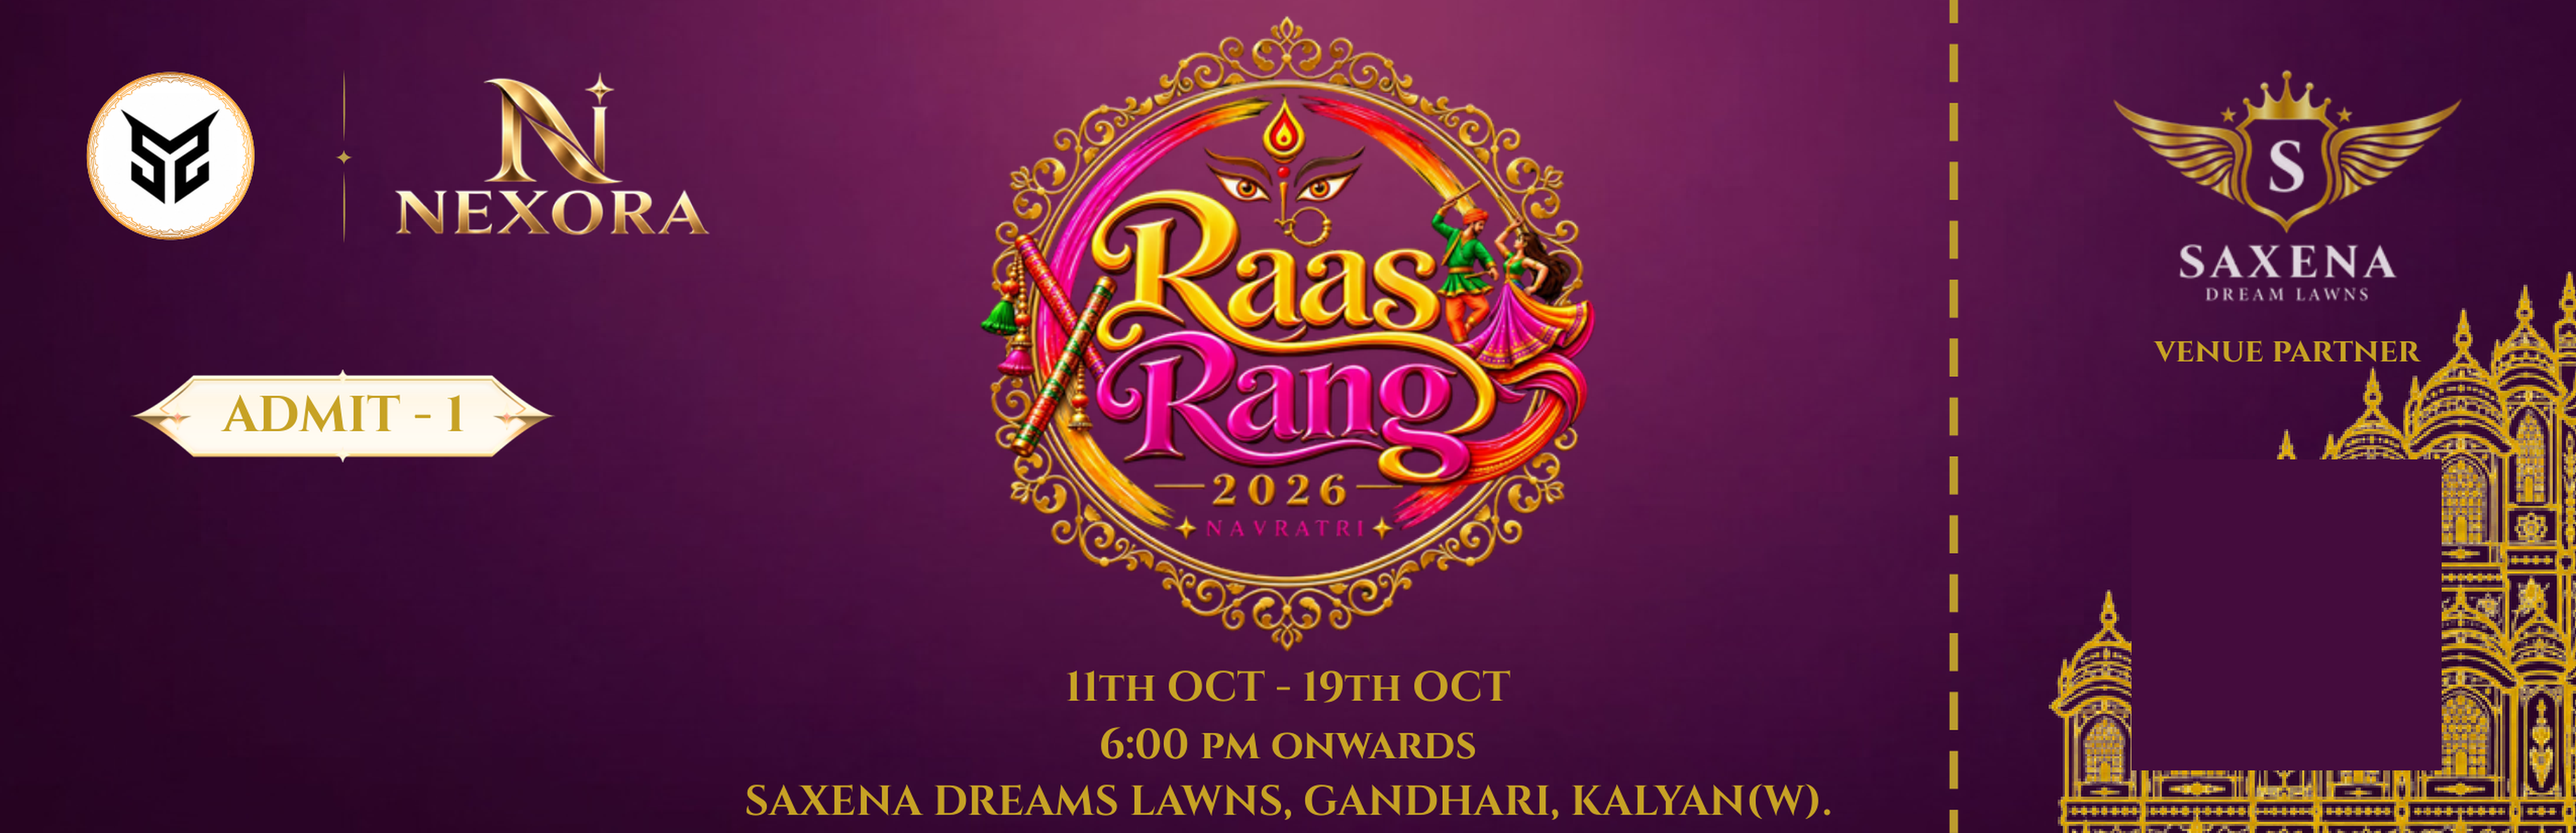
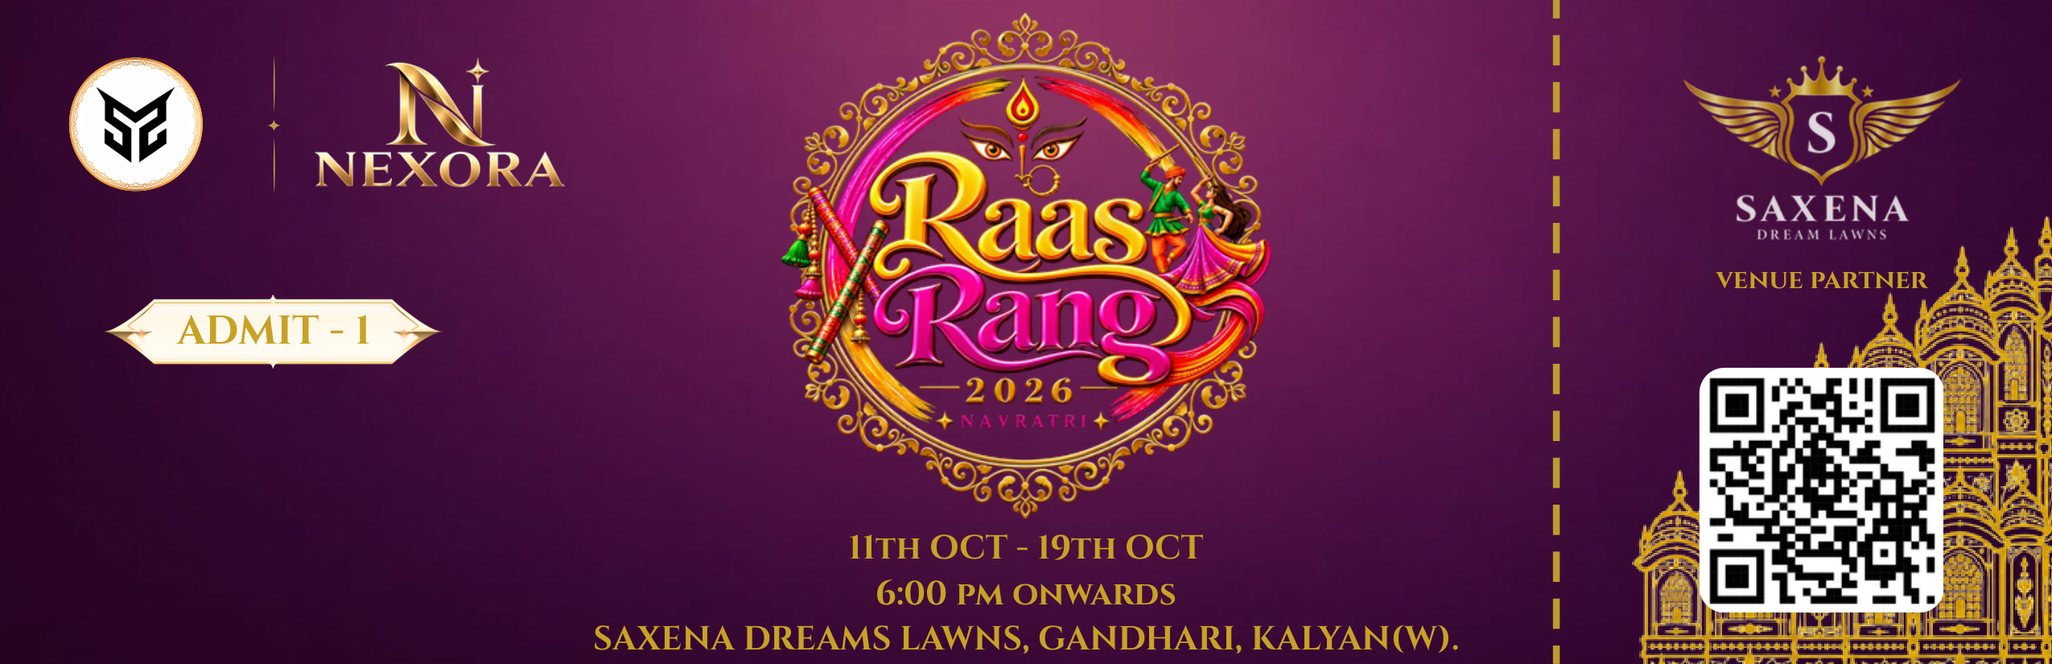
Fix whatsapp venue and date format, update ticket pdf aspect ratio and high res background

Changed region(s): [[0.8055, 0.5455, 0.9604, 0.9394], [0.031, 0.0909, 0.0929, 0.1212], [0.031, 0.2424, 0.062, 0.2727]]

diff --git a/src/lib/delivery-utils.ts b/src/lib/delivery-utils.ts
@@ -61,7 +61,8 @@ export function buildTicketMessage(pass: Pass, night?: EventNight | null): strin
   } else if (night) {
     const d = new Date(night.event_date + 'T00:00:00+05:30');
     const month = d.toLocaleDateString('en-IN', { month: 'long' });
-    dateLabel = `*Date:* ${ordinal(d.getDate())} ${month}`;
+    const weekday = d.toLocaleDateString('en-IN', { weekday: 'long' });
+    dateLabel = `*Date:* ${ordinal(d.getDate())} of ${month} ${weekday}`;
   } else {
     dateLabel = '*Date:* See ticket for details';
   }
@@ -72,7 +73,7 @@ export function buildTicketMessage(pass: Pass, night?: EventNight | null): strin
     `Please keep it safely saved on your phone and present the QR code at the entry.\n\n` +
     `${dateLabel}\n` +
     `*Time:* 6 PM onwards\n` +
-    `*Venue:* Mangeshi Banquet, Near Skydeck, Kalyan (West)\n\n` +
+    `*Venue:* Saxen Adream Lawns\n\n` +
     `Important:\n` +
     `• Please carry the ticket/QR code for entry.\n` +
     `• One ticket is valid for the number of persons mentioned at the time of booking.\n` +

diff --git a/src/lib/pdf.ts b/src/lib/pdf.ts
@@ -24,9 +24,9 @@ export async function generateTicketPdf(
 ): Promise<Uint8Array> {
   const pdfDoc = await PDFDocument.create();
 
-  // Printable dimensions: 552.75 pt x 207.28 pt (aspect ratio 2.666:1)
+  // Printable dimensions: 552.75 pt x 178.82 pt (aspect ratio 3.09:1)
   const widthPt = 552.75;
-  const heightPt = 207.28;
+  const heightPt = 178.82;
   const page = pdfDoc.addPage([widthPt, heightPt]);
 
   // Load and embed background event artwork

diff --git a/find_qr.py b/find_qr.py
@@ -1,0 +1,35 @@
+from PIL import Image
+
+img = Image.open("public/ticket-bg-highres.png")
+pixels = img.load()
+width, height = img.size
+
+# Search in the right side
+x_start = int(width * 0.75)
+x_end = width
+y_start = 0
+y_end = height
+
+white_pixels = []
+
+for x in range(x_start, x_end):
+    for y in range(y_start, y_end):
+        r, g, b = pixels[x, y][:3]
+        if r > 240 and g > 240 and b > 240:
+            white_pixels.append((x, y))
+
+if white_pixels:
+    min_x = min(p[0] for p in white_pixels)
+    max_x = max(p[0] for p in white_pixels)
+    min_y = min(p[1] for p in white_pixels)
+    max_y = max(p[1] for p in white_pixels)
+    print(f"White bounding box:")
+    print(f"min_x: {min_x}, max_x: {max_x}, min_y: {min_y}, max_y: {max_y}")
+    
+    print(f"leftPercent: {min_x / width * 100:.2f}%")
+    print(f"topPercent: {min_y / height * 100:.2f}%")
+    print(f"widthPercent: {(max_x - min_x) / width * 100:.2f}%")
+    print(f"heightPercent: {(max_y - min_y) / height * 100:.2f}%")
+else:
+    print("No white pixels found on the right side.")
+

diff --git a/extract_images.py b/extract_images.py
@@ -1,0 +1,19 @@
+import fitz
+
+doc = fitz.open("/Users/rishabhh/Downloads/PASS DESIGN _20261007_122814_0000.pdf")
+for page_index in range(len(doc)):
+    page = doc[page_index]
+    image_list = page.get_images(full=True)
+    if image_list:
+        print(f"[+] Found a total of {len(image_list)} images in page {page_index}")
+    else:
+        print("[!] No images found on page", page_index)
+    for image_index, img in enumerate(image_list, start=1):
+        xref = img[0]
+        base_image = doc.extract_image(xref)
+        image_bytes = base_image["image"]
+        image_ext = base_image["ext"]
+        image_name = f"public/extracted_image_{page_index}_{image_index}.{image_ext}"
+        with open(image_name, "wb") as f:
+            f.write(image_bytes)
+            print(f"[+] Image saved as {image_name}")

diff --git a/remove_qr.py b/remove_qr.py
@@ -1,0 +1,16 @@
+from PIL import Image, ImageDraw
+
+img = Image.open("public/ticket-bg-highres.png")
+draw = ImageDraw.Draw(img)
+
+# Sample color from just above the white box
+bg_color = img.getpixel((2112, 450))
+
+# Fill the white box region with the background color
+draw.rectangle([2110, 455, 2416, 762], fill=bg_color)
+
+# Resize to something reasonable but high-res, e.g. 3200x1035 or keep original
+img = img.resize((3200, int(3200 * (825/2550))), Image.LANCZOS)
+img.save("public/ticket-bg.png")
+
+print(f"Removed QR and saved as ticket-bg.png with size {img.size}")

diff --git a/print_img.py b/print_img.py
@@ -1,0 +1,15 @@
+from PIL import Image
+
+img = Image.open("public/ticket-bg.png")
+width, height = img.size
+
+purple_count = 0
+total_count = 0
+for y in range(int(height/2), height):
+    for x in range(int(width/2)):
+        r, g, b = img.getpixel((x, y))[:3]
+        if abs(r - 43) < 20 and abs(g - 9) < 20 and abs(b - 56) < 20:  
+            purple_count += 1
+        total_count += 1
+
+print(f"Purple pixels: {purple_count}/{total_count} ({purple_count/total_count*100:.2f}%)")

diff --git a/process_ticket.py b/process_ticket.py
@@ -1,0 +1,12 @@
+import fitz
+import sys
+from PIL import Image, ImageDraw
+
+doc = fitz.open("/Users/rishabhh/Downloads/PASS DESIGN _20261007_122814_0000.pdf")
+page = doc.load_page(0)
+# Use a high dpi like 300
+pix = page.get_pixmap(dpi=300)
+pix.save("public/ticket-bg-highres.png")
+
+img = Image.open("public/ticket-bg-highres.png")
+print(f"Dimensions: {img.size}")

diff --git a/check_img.py b/check_img.py
@@ -1,0 +1,9 @@
+from PIL import Image
+
+img = Image.open("public/ticket-bg.png")
+print("Mode:", img.mode)
+
+# Check if there is transparency
+if img.mode == 'RGBA':
+    extrema = img.getextrema()
+    print("Alpha extrema:", extrema[3])

diff --git a/check_pdf.py b/check_pdf.py
@@ -1,0 +1,4 @@
+import fitz
+doc = fitz.open("/Users/rishabhh/Downloads/PASS DESIGN _20261007_122814_0000.pdf")
+page = doc.load_page(0)
+print(page.rect)
